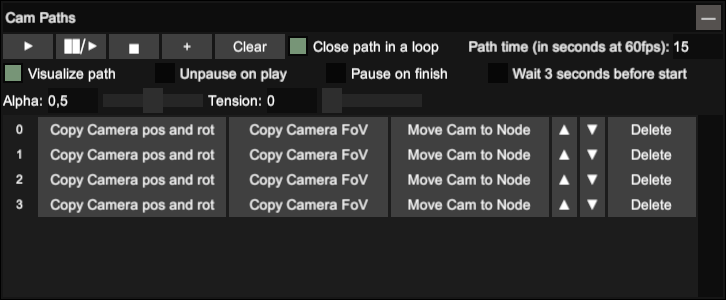
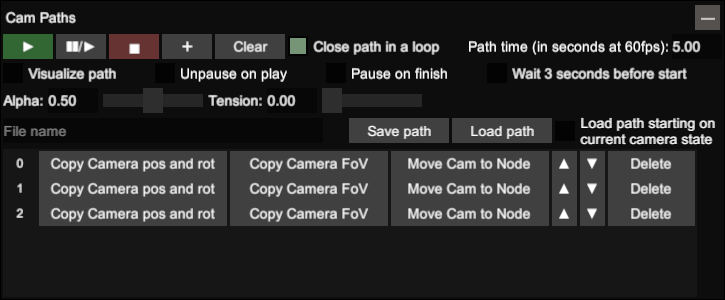
Updated the CUE guide for its new release

diff --git a/markdown/GeneralGuides/cinematic-unity-explorer.md b/markdown/GeneralGuides/cinematic-unity-explorer.md
@@ -1,5 +1,5 @@
 <p align="center">
-  <img src="../Images/CinematicUnityExplorerGuide/toplogo.png">
+  <img src="../Images/CinematicUnityExplorerGuide/toplogo.png">
 </p>
 
 @alert neutral
@@ -36,11 +36,11 @@ Depending on the game, there may be [Thunderstore Mod Manager](https://www.overw
 Most, if not all, games that can be managed through Thunderstore have their BepInEx version already chosen by other players, making installation of CUE as simple as installing BepInEx through the manager, and dragging CUE into the BepInEx folder.
 
 @alert important
-Please note, you still need to identify the type of Unity game so that you download the correct CUE version for your game.
+Please note that you still need to identify the type of Unity game so that you download the correct CUE version for your game.
 @end
 
 ## Identifying the type of Unity game
- 
+
 To know what files you have to install you first need to understand if the game is a `Mono` or an `IL2CPP` game.
 
 ### Mono or IL2CPP
@@ -49,14 +49,14 @@ To identify if a game is `Mono` or `IL2CPP` open the game folder:
 
 - Mono games have a `Managed` folder in the gamedata folder. They also might have a folder with `Mono` on its name.
 - IL2CPP games have a `GameAssembly.dll` in the game folder and an `il2cpp_data` folder in the gamedata folder.
- 
+ 
 @alert tip
 If the game is on Steam, you can check the file structure before downloading by going to the [SteamDB](https://steamdb.info) page of the game, `Depots` section, and from the table in there, click the ID number on the game's depot (usually the one with the bigger file size).
 @end
 
 If you happen to need it for something the Unity Engine version number can be found by going to the game's folder, right-click on `UnityPlayer.dll`, clicking on Properties, and heading over to the Details tab. But this info shouldn't be relevant to the guide.
 
-## MelonLoader (for Mono and IL2CPP games)  
+## MelonLoader (for Mono and IL2CPP games)  
 
 Even tho you can technically use BepInEx as a mod loader for Mono games, we have had more luck getting MelonLoader to work instead, so we proceed to describe the download and installation process for it below.
 
@@ -86,14 +86,17 @@ Both MelonLoader and BepInEx download some necessary .dlls when first launched w
 
     If you don't see a MelonLoader splash screen when starting the game or any console then there might be a problem with the mod loader. To fix it try the steps described below one by one and start the game again after trying each of them:
   - Rename `version.dll` in `winhttp.dll`
-
-
+  - Try the latest version of MelonLoader instead of v0.5.7.
 
 - Extract the CinematicUnityExplorer zip inside the game's main folder. Launch the game. You should be able to see the Cinematic Unity Explorer menu pop up on startup.
 
     If you don't see such a thing and want to verify you can go to the `Mods\CinematicUnityExplorer` folder. You should be able to see a `Logs` and `Scripts` folder in there. You can also check the mod loader logs generated inside the `MelonLoader\Logs` folder and try to read if there is any error in the latest one. If indeed the mod hasn't been loaded try deleting Cinematic Unity Explorer and downloading and installing [CinematicUnityExplorer.MelonLoader.IL2CPP.CoreCLR.zip](https://github.com/originalnicodr/CinematicUnityExplorer/releases). This is likely the cause as Unity seems to be shifting into CoreCLR for their latest versions.
 
     Most games work with ML 0.5.7 by default and do not need any changes. Still, there might be a small chance some games (e.g. Tormented Souls) won't work once Cinematic Unity Explorer is installed, and it can lead to a crash. If that happens, we recommend giving [BepInEx 6](https://builds.bepinex.dev/projects/bepinex_be) for IL2CPP a try. If that's the case go to the linked page, scroll down to "Artifacts", and download `BepInEx Unity (IL2CPP) for Windows x86` or `x64` depending on the game (follow the [Mono section](#Mono) of this guide to know which one). If even that fails try so with `BepInEx NET (CoreCLR net6.0) for Windows`.
+
+@alert important
+If the game is fairly recent (post 2022) chances are you would need to use `CinematicUnityExplorer.MelonLoader.IL2CPP.CoreCLR.zip` instead. You may also need to use MelonLoader latest version aswell.
+@end
 
 @alert tip
 If you do not want MelonLoader splash screen every time you start the game go to `game_root\UserData\MelonStartScreen\Config.cfg` and under `[General]` change `Enabled` from `true` to `false`.
@@ -109,7 +112,7 @@ Some games (noticeably the ones published by EA) have encrypted game objects on 
 
 ### 32-bit or 64-bit
 
-When using BepInEx, you have to make an extra distinction between 32 and 64 bits. To do so, launch the game and use the Task Manager to check if your game is 32-bit or 64-bit (if it is 32-bit, it will have "32-bit" next to the process name).  
+When using BepInEx, you have to make an extra distinction between 32 and 64 bits. To do so, launch the game and use the Task Manager to check if your game is 32-bit or 64-bit (if it is 32-bit, it will have "32-bit" next to the process name).
 
 ![TaskManager01](../Images/CinematicUnityExplorerGuide/TaskManager01.png){.shadowed .autosize}
 
@@ -154,7 +157,7 @@ If the game is using a DRM like Steam make sure you are launching said game thro
 First, download and install [Thunderstore Mod Manager](https://www.overwolf.com/app/thunderstore-thunderstore_mod_manager).
 Once the manager is installed, find your game in the options available, and click 'Select Game'.
 In the profile screen, either select Default, or create your own if you'd prefer. Click 'Select Profile' to move on to the main section of the manager.
-On the left hand side, you will see a 'Get Mods' tab, open this and search for BepInEx. Select the BepInEx result, and click 'Download'. The mod manager will then automatically download and install the version required for your chosen game.
+On the left-hand side, you will see a 'Get Mods' tab, open this and search for BepInEx. Select the BepInEx result, and click 'Download'. The mod manager will then automatically download and install the version required for your chosen game.
 
 @alert info
 Some games will have multiple results when searching for BepInEx, depending on their popularity. You can often find a 'Pinned' release when this is the case, which will be the main install option you need.
@@ -165,7 +168,7 @@ You can now close the game, and move on to installing CUE.
 In Thunderstore, navigate to the Settings tab, and select 'Browse profile folder'. This will take you to the location Thunderstore keeps the mods you install.
 Open a separate explorer window and find your CUE download. Open the downloaded ZIP folder, and copy the 'Plugins' folder. 
 Move back to the window with the game profile, open the BepInEx folder, and paste the CUE plugin folder.
-Boot the game again, through the Modded play button. You should see an overlay when the game window appears, meaning CUE has installed correctly.
+Boot the game again, through the Modded play button. You should see an overlay when the game window appears, meaning CUE has been installed correctly.
 
 # Hotkeys
 ---
@@ -196,23 +199,25 @@ Open the mod menu | `F7`
 
 # Freecam
 ---
-The freecam can be enabled from the "Freecam" panel on the mods menu or with the `Insert` hotkey. However, there are two kinds of freecams, as explained in the two following subsections.
-
-![sidebyside](../Images/CinematicUnityExplorerGuide/sidebyside.jpg){.shadowed .autosize}
-
-## New Camera
-
-Without checking the "Use Game Camera?" checkbox on the Freecam panel, the mod will create a new camera object for you to control. This means that some post-processing effects won't be displayed (because they are being applied to the game's camera, not the new one), making the game look "ugly".
-
-However, we would like this to be the case in some games if the gameplay camera happens to bring unwanted effects (like in Somerville, where the gameplay camera didn't render behind the black bars, but this new camera did).
+The freecam can be enabled from the "Freecam" panel on the mods menu or with the `Insert` hotkey. However, there are different kinds of freecams, as explained in the following subsections.
 
 ![Freecam Panel](../Images/CinematicUnityExplorerGuide/freecam-panel.png){.shadowed .autosize}
 
+## New Camera
+
+When selecting "New" in the Camera Mode dropdown on the Freecam panel, the mod will create a new camera object for you to control. This mode will give you a controllable freecam almost every time, but chances are some (if not most) post-processing effects won't be displayed (because they are being applied to the game's camera, not the new one), making the game look "ugly".
+
+![sidebyside](../Images/CinematicUnityExplorerGuide/sidebyside.jpg){.shadowed .autosize}
+
+However, we would like this to be the case in some games if the gameplay camera happens to bring unwanted effects (like in Somerville, where the gameplay camera didn't render behind the black bars, but this new camera did).
+
 ## Gameplay camera
 
-If you need these postprocessing effects you would need to check the "Use Game Camera?" checkbox in the Freecam panel. This will let you control the gameplay camera instead of creating a new one to control.
+If you need these postprocessing effects you would need to choose any of the other Camera Modes in the dropdown. In the case of the "Gameplay" camera mod, it will let you control the gameplay camera instead of creating a new one to control.
 
-When doing this, the Cinematic Unity Explorer will attempt to disable the component that controls this gameplay camera, but in some cases, it won't be able to find the right component to disable and unlock the camera from the game. So if you cannot move or rotate the gameplay camera do the following:
+When doing this, the Cinematic Unity Explorer will attempt to disable the component that controls this gameplay camera, but in some cases, it won't be able to find the right component to disable and unlock the camera from the game. In such cases in which you cannot move or rotate the gameplay camera we suggest trying the [Cloned](#cloned-camera) or [ForcedMatrix](#forcedmatrix-camera) camera modes, but if those don't work for whatever reason or the postprocessing effects get butchered you can try the following:
+
+### Gameplay Camera troubleshooting
 
 - Click on the "Inspect Free Camera" button at the end of the Freecam panel.
 - On the Inspector window click on the "Inspect GameObject" button.
@@ -221,7 +226,7 @@ When doing this, the Cinematic Unity Explorer will attempt to disable the compon
 
 If the steps listed above fail, go to the camera parent game object (by clicking on "◄ View Parent" on the top left) and try the components there. If that doesn't work then you can try entering other children's game objects from this parent and disabling their components. You can also go up in the parent hierarchy until you find the right game object and component or don't have more parent game objects to go to.
 
-If all of that fails you can also try going to the Object Explorer panel and search for game objects with the word "cam", "controller" or "input" on their names (might need to test different scenes if the game has many) in the Scene Explorer. Alternatively, you can also look up these words on the Object Search tab, but expect to get a lot of unhelpful results.
+If all of that fails you can also try going to the Object Explorer panel and search for game objects with the word "cam", "controller" or "input" on their names (might need to test different scenes if the game has many) in the Scene Explorer. Alternatively, you can also look up these words on the Object Search tab but expect to get a lot of unhelpful results.
 
 As a last resource, you can try deleting the components instead of just disabling them, but beware since that might block you from returning to normal gameplay (and might even crash the game).
 
@@ -232,6 +237,18 @@ Remember to enable whatever component or game object you disabled again when you
 The *CineMachine* component (a common Unity class used for controlling a gameplay camera) gets automatically disabled by Cinematic Unity Explorer, but some games (e.g. Haven) turn this *CineMachine* component back on whenever it gets disabled, and the only solution for dealing with it is to straight up delete the component. It's advised to go back to the menu or reload the level in some capacity to get this component back once you finish your shooting session.
 
 ![Disable another component on the gameplay camera](../Images/CinematicUnityExplorerGuide/disable-camera-components.webp){.shadowed .autosize}
+
+## Cloned camera
+
+It clones the game object that has the gameplay camera. By doing this instead of using the original gameplay camera we can take control of the camera in case there is an external game object or component that was controlling it, as the game won't have a a reference to this new camera, like when you create a new camera. The difference is that we are also copying all the components that are inside of this game object, which may include postprocessing effects if they are not in another game object.
+
+There are some cases in which postprocessing effects aren't on the same game object but on a parent game object or an external one, meaning that for them to render properly we would need to use one of the following methods.
+
+## ForcedMatrix camera
+
+Forces the projection and worldToCamera matrices of the original gameplay camera with our own. This way we can override what the camera renders without the game logic getting in the way.
+
+This isn't a silver bullet solution as there are some games that may have some problems with this approach (the ones that use the HD rendering pipeline package mainly), but it's very possible that it will work for most games.
 
 ## Far and near clipping plane
 
@@ -259,11 +276,15 @@ In the meantime, if you need to disable the game input and the mod isn't doing s
 
 Following world objects can be useful for recording video, by creating [camera paths](#cam-paths) that are relative to objects.
 
-Also, by checking the "Follow object rotation" checkbox the camera is "physically" bounded to the gameobject, allowing us to do things like recording on the side of a car, changing the "gameplay camera" by freezing the freecam in non-gameplay positions and unlocking the games input, or do motion blur shots when using it alongside a long exposure Reshade Shader. However, for the latter, it's recommended to also decrease the time dilation as explained in the following section, for smoother blur.
+Also, by checking the "Follow object rotation" checkbox the camera is "physically" bounded to the game object, allowing us to do things like recording on the side of a car, changing the "gameplay camera" by freezing the freecam in non-gameplay positions and unlocking the games input, or do motion blur shots when using it alongside a long exposure Reshade Shader. However, for the latter, it's recommended to also decrease the time dilation as explained in the following section, for smoother blur.
 
 You can make the freecam follow a game object in the world by clicking on the "Follow Object" button in the "Freecam" panel and clicking the object on the screen.
 
 If you want more granular control over the following object (like the head of a character, or a wheel in a car) and have the parent object open in the inspector, you can go through its children (list of objects on the bottom left) and once you identify the object you want to follow click on it to open it on another inspector tab and click on the "Follow Object" button on the top left.
+
+## Look At object
+
+As an alternative to the follow object mode, you can also select a gameplay object to follow with the camera. It might be very situational as it will maintain the object in the middle of the screen, which might not be ideal composition-wise but could still be useful for, for example, racing-replay-like cinematics.
 
 # TimeDilation
 ---
@@ -302,6 +323,17 @@ Among the things the camera paths can currently do, there is:
 
 As a side note, the mod UI will be disabled once the path starts, to ease video recording.
 
+## Serialization
+
+The panel allows you to save and load camera paths, to be able to use and iterate paths across different game sessions (and even different games). The following things are saved in a path:
+* Nodes
+* Is a closed path
+* Path time
+* Tension
+* Alpha
+
+You can also load a camera path relative to your current camera position and rotation to be able to use your path in a new level/scene, or if you just want to move the same path as a whole around the same scene.
+
 ## Visualizer
 You can visualize a camera path with in-world arrows, whose origin and orientation represent the position and orientation that the camera will have at that point in the curve. To enable this click on the "Visualize path" checkbox on the Cam Path panel. Keep in mind that this will be turned off once the path starts playing since its purpose is to help the user set up the path itself.
 
@@ -326,7 +358,7 @@ If you want to move an already created light you can use the "Move to Camera" op
 There also is a default intensity input field on the panel. Since the way the intensity of a light works varies a lot from game to game you have to increase/decrease this property on a light until it looks right, and once you figure out a value that works for your game you can write it as the default intensity and don't have to edit it on the new lights you spawn from that point onwards.
 
 ### Further reading
-* [Unity Light class](https://docs.unity3d.com/es/530/Manual/class-Light.html)  
+* [Unity Light class](https://docs.unity3d.com/es/530/Manual/class-Light.html)  
 * [Unity Lighting](https://docs.unity3d.com/Manual/Lighting.html)
 
 ## Visualizer
@@ -389,9 +421,15 @@ For each animator, you can also spawn a Bones Panel. This panel will list all of
 
 ![Bones panel](../Images/CinematicUnityExplorerGuide/bones-panel.png){.shadowed .autosize}
 
+All bones are shown on a tree-like structure to more easily identify the main bones and make posing easier, as well as also reflect the bone's parent-son relationships to tweak smaller bones according to the user's needs.
+
+You can also easily filter through bone names using the search field at the top if you need, for example, to quickly get the eye bones to rotate them towards your camera.
+
 Do take in mind that to move an NPC bones around you will need to disable the animator (done at the top of the Bones Panel). This will get activated again automatically once you reset all of the animators. Also, you will probably only be able to disable certain meshes that aren't bones (like accessories such as a scarf or sunglasses). If you want to hide a certain element that is a bone and can't be toggled you can try reducing its scale to 0.
 
 Also, certain elements such as clothes or hair might get weird physics when posing the character. If you want them to adapt to the new character pose try skipping one or two frames with the [skipframe](#skipframe) hotkey.
+
+Besides all of the mentioned features, you can save and load poses across different game sessions. And, if the game uses the same skeletons for all characters, you should be able to load poses saved from one character into another.
 
 # Post-processing panel
 ---
@@ -469,6 +507,10 @@ To be able to use this DOF you would need to do the following:
 - Install IGSCConnector by following the instructions [here](https://opm.fransbouma.com/igcsdof.htm#installation).
 
 @alert important
+If the game is 32 bits make sure to download [UnityIGCSConnector.32.dll](https://github.com/originalnicodr/CinematicUnityExplorer/releases/latest/download/UnityIGCSConnector.32.dll) instead, as well as the 32 bits version of the IgcsConnector.
+@end
+
+@alert important
 Be sure to select `Classic (slower)` mode instead of `Fast`, as the latter one seems to render the image out of focus in most games. However `Fast` might still work in some, so it's still worth giving it a try.
 @end
 
@@ -483,17 +525,21 @@ Because the changes done with this mod are purely on runtime. Meaning that we ar
 
 Before explaining some things, I believe it's a good idea to first have a grasp of some of the concepts Unity (and Oriented Object Programming) uses.
 
-Every object in the game world is what is called a "Game Object". Each game object can have other game objects as "children", as well as other type of objects called "components", as we will explain in a bit.
+Every object in the game world is what is called a "Game Object". Each game object can have other game objects as "children", as well as another type of object called "components", as we will explain in a bit.
+
+![Object Inspector panel](../Images/CinematicUnityExplorerGuide/inspector-panel.png){.shadowed .autosize}
 
 Think of these as two different bags in which you can play around with their elements, with a couple of differences:
 
 - The children's game objects can have, at the same time, their own children, generating a sort of hierarchical family tree.
 - Given a game object with a parent game object, if the latter moves then the former will move as well. Making it so that children's game objects move relatively to their father. Also, disabling a game object will also disable all of their children's game objects.
-- You can see these hierarchical relationships in the scene itself on the Object Explorer, as well as in the bottom left section of a game object Inspector tab.
+- You can see these hierarchical relationships in the scene itself on the Object Explorer, as well as in the bottom left section of an Object Inspector panel.
 - A group of children's game objects is necessary to always be of the same type, a Game Object, but components can be of different types.
 - These components can have variables and functions inside of them, but they always represent something, even if that something is abstract (e.g. a light is a Game Object that exists in the game world, which has a `Light` component that holds all of the properties of the light).
 
-So for example, if we wanted to make the head of a character bigger (assuming the character's body parts are in different Game Objects instead of the whole body in a single Game Object) we would first need to find the character game object from the Animator panel or the mouse inspector. Once we have the game object inspector tab open for the character we can start disabling children Game Objects on its tree in the bottom left section. Whenever the head disappears then it would have meant we found our desired Game Object, so we can click on it (instead of disabling it) and modify the game object's uniform scale slider.
+@alert tip
+If you want to more easily move objects around a scene, once you have the Inspector panel open for the object you want to move, move the camera where you want the object to move to and just click on "Move to Camera" button on the Inspector panel.
+@end
 
 ## How to modify a game object's spatial property
 
@@ -554,23 +600,23 @@ GameObject sonObj = null;
 // Find objects
 var objects = RuntimeHelper.FindObjectsOfTypeAll<UnityEngine.GameObject>();
 foreach(GameObject obj in objects)
-{   
-    if (obj.GetInstanceID() == parentID){
-        parentObj = obj;
-        Log(parentObj);
-    }
-    if (obj.GetInstanceID() == sonID){
-        sonObj = obj;
-        Log(sonObj);
-    }
+{   
+    if (obj.GetInstanceID() == parentID){
+ parentObj = obj;
+        Log(parentObj);
+ }
+    if (obj.GetInstanceID() == sonID){
+ sonObj = obj;
+        Log(sonObj);
+ }
 }
 
 if (parentObj != null && sonObj != null){
-    sonObj.transform.SetParent(parentObj.transform);
+    sonObj.transform.SetParent(parentObj.transform);
 }
 else{
-    if (parentObj == null) Log("Couldn't find parent");
-    if (sonObj == null) Log("Couldn't find son");
+    if (parentObj == null) Log("Couldn't find parent");
+    if (sonObj == null) Log("Couldn't find son");
 }
 ```
 
@@ -579,6 +625,7 @@ As a side note, know that messing with the game objects' vanilla hierarchy could
 ## Additional tips
 
 * Most Unity games (if not almost all of them) let you [hotsample](../basics.htm#hotsampling), and even let you use custom ARs.
+* If the game doesn't have a windowed mode add `-screen-fullscreen 0 -popupwindow` as launch parameters in Steam or a shortcut.
 * If the game is exclusively fullscreen and doesn't have the option to play windowed for hotsampling, press `Alt` + `Enter` to go out of fullscreen into windowed.
 * It's generally recommended to disable any overlays you have as they may conflict with the keybindings.
 
@@ -591,4 +638,4 @@ If you have any suggestions or problems you want to report please head over to t
 
 - [PCGamingWiki Unity page](https://www.pcgamingwiki.com/wiki/Engine:Unity)
 - [Games on Steam made with Unity](https://steamdb.info/tech/Engine/Unity)
-- [BepInEx Documentation](https://docs.bepinex.dev/master/articles/user_guide/installation/index.html) - Extensive installation, configuration, and troubleshooting site
+- [BepInEx Documentation](https://docs.bepinex.dev/master/articles/user_guide/installation/index.html): Extensive installation, configuration, and troubleshooting site
